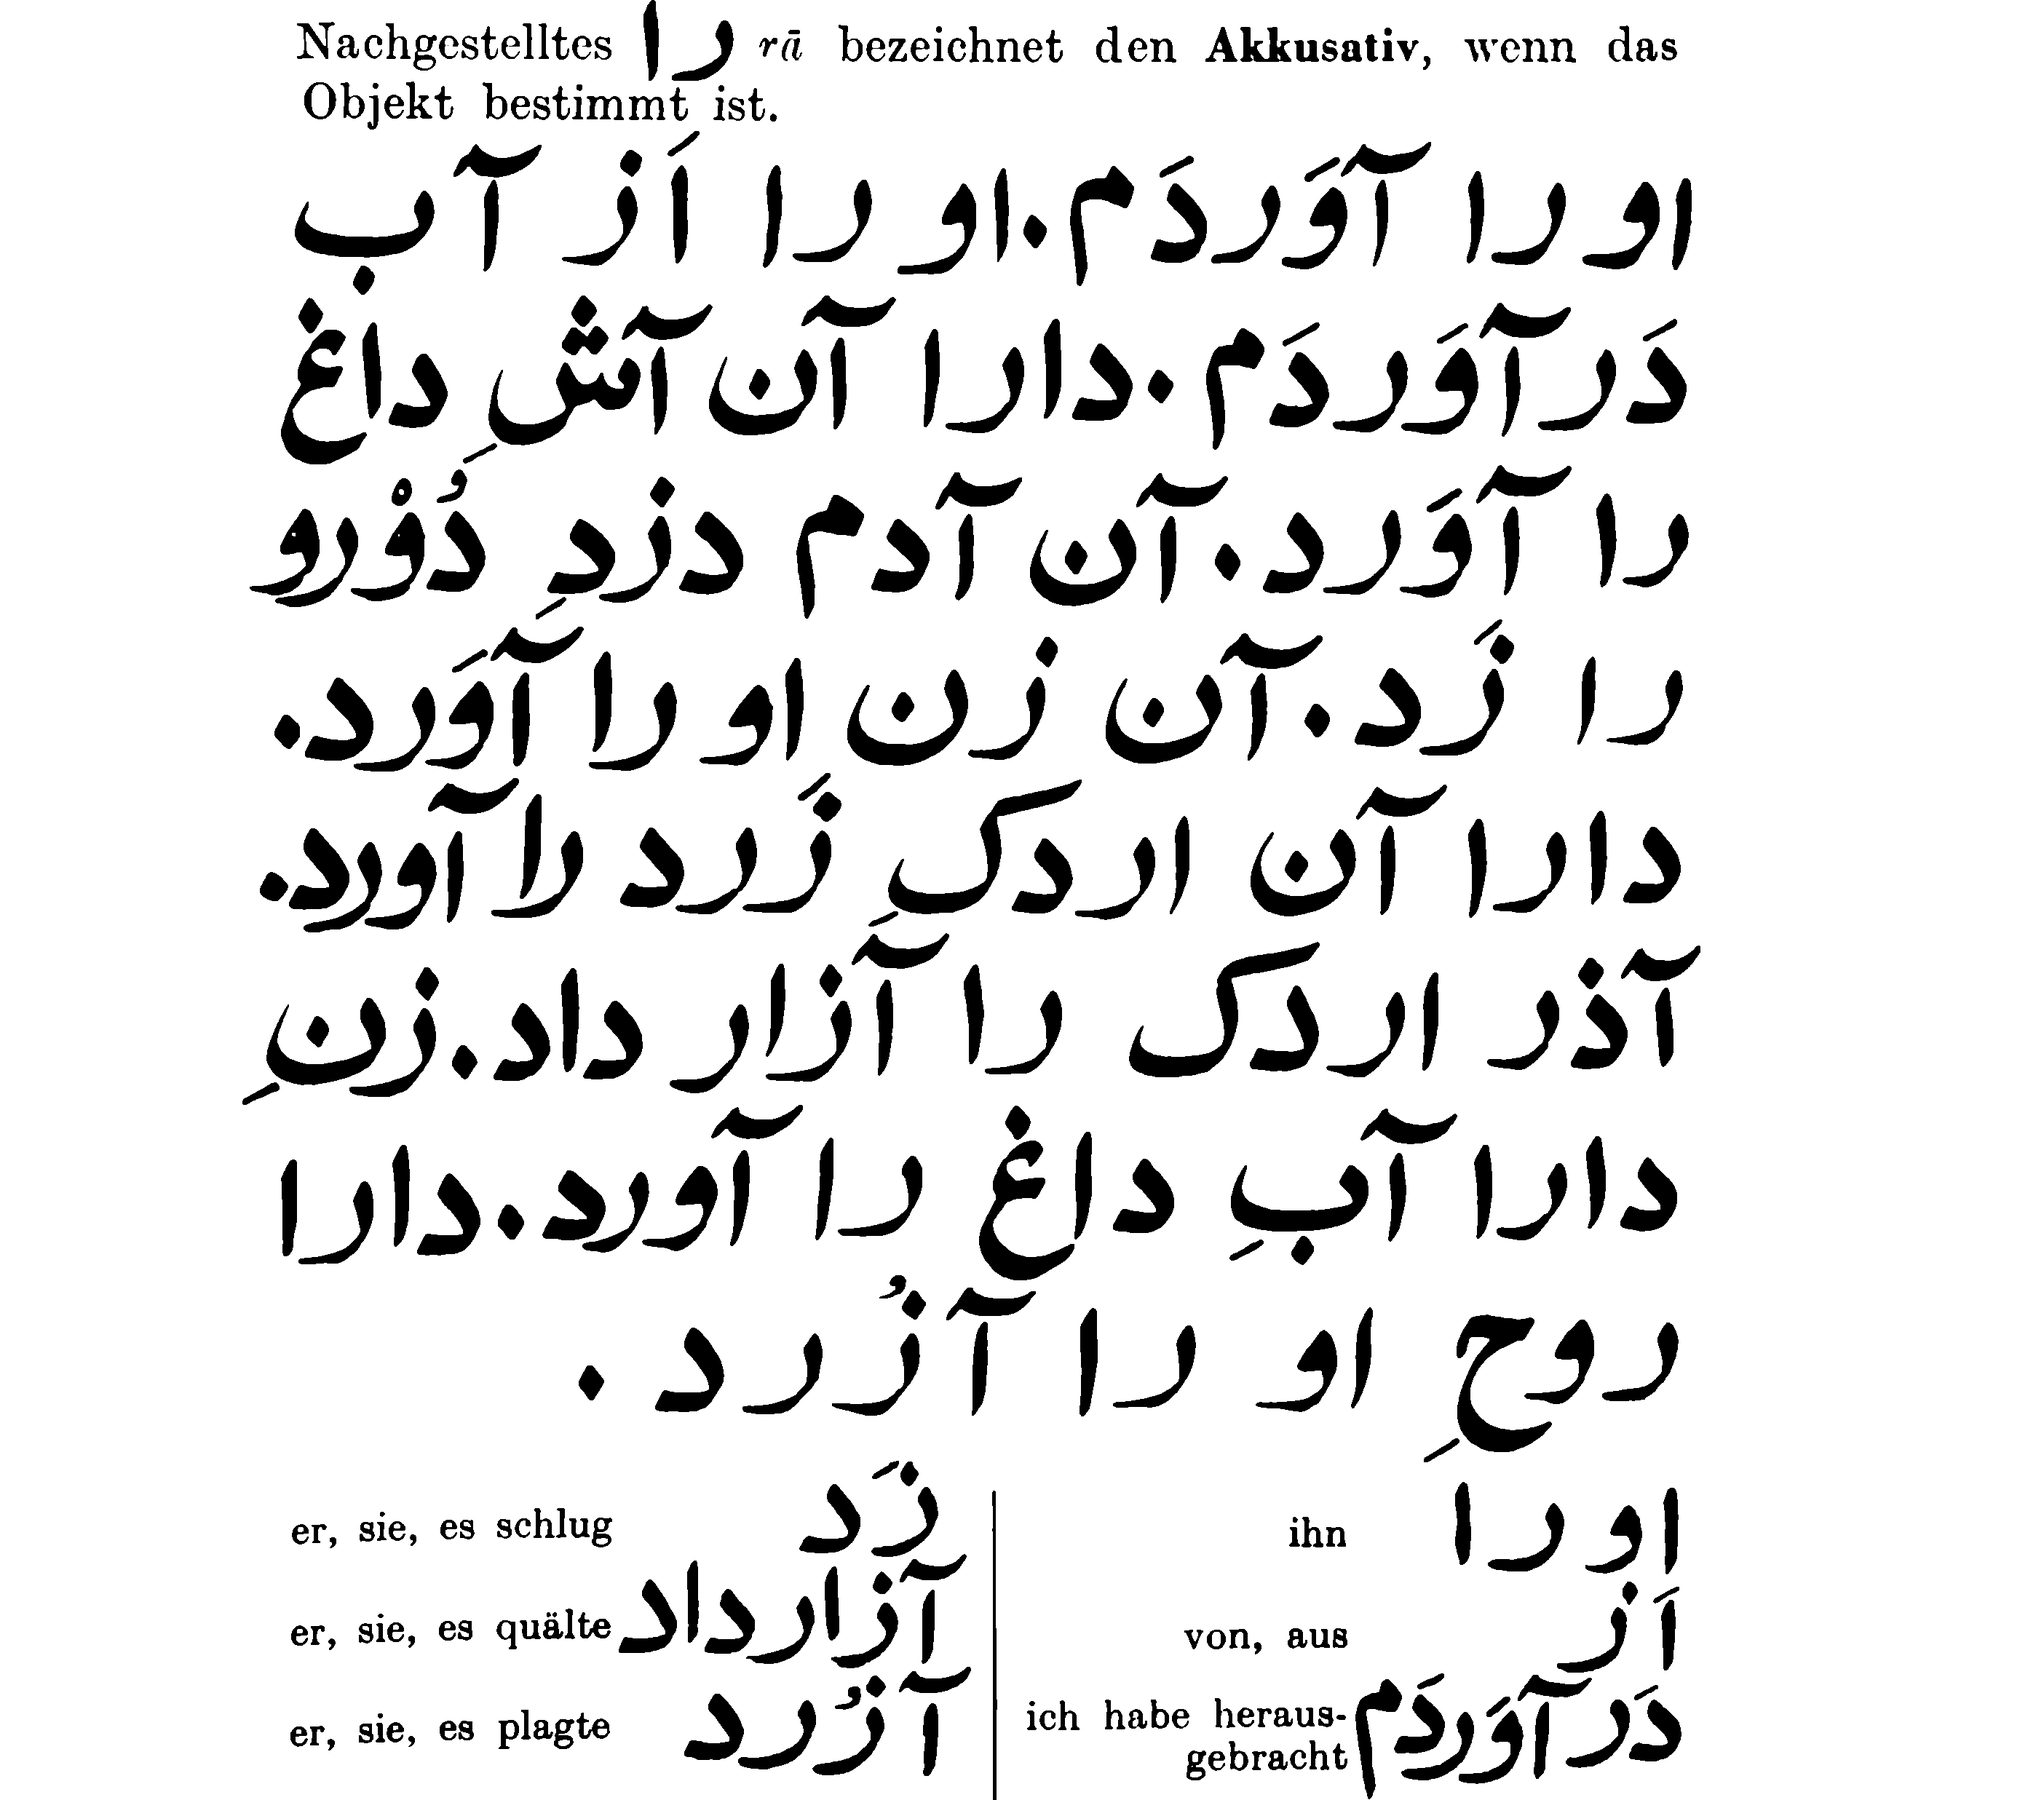
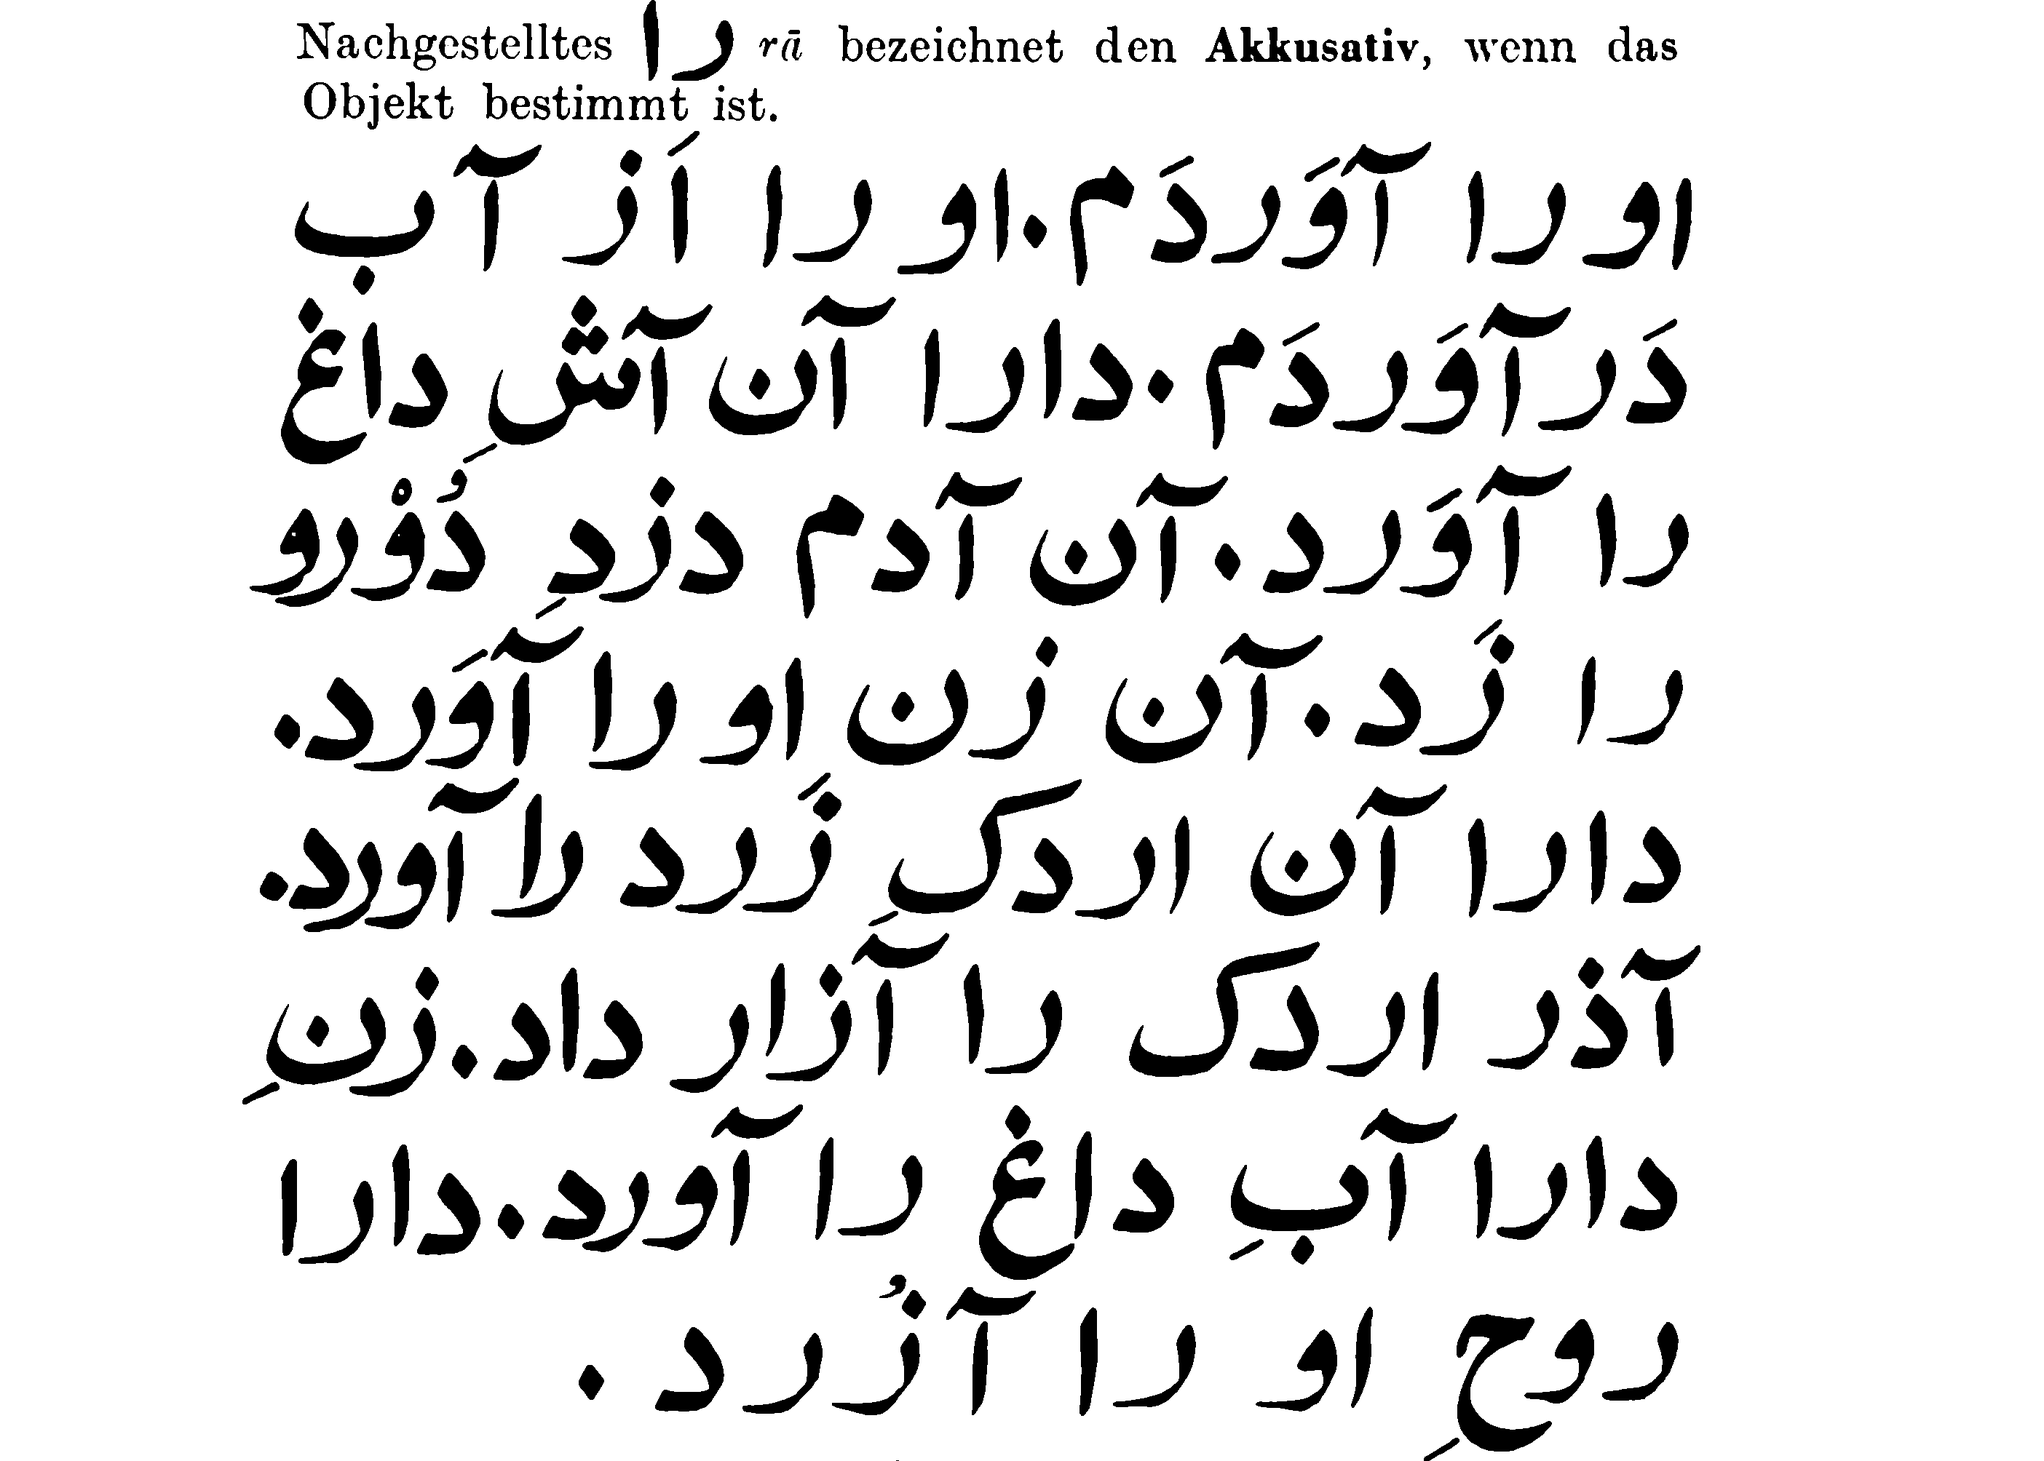
edit

diff --git a/s/11.md b/s/11.md
@@ -6,27 +6,14 @@ title:  Lektion 11
 
 ![image](/assets/s/021.png-03.png)
 
-![image](/assets/s/2col/021.png-12_1L.png)
-
-![image](/assets/s/2col/021.png-12_2R.png)
-
 Nachgcstelltes Objekt bestimmt ist.
 
-er, sie, es schlug
+bezeichnet den Akkusativ, wenn das
 
-er, sie, es quälte er, sie, es plagte
+![image](/assets/s/021.png-04_1L.png)
 
+![image](/assets/s/021.png-04_1R.png)
 
-
-Lektion 11 bezeichnet den Akkusativ, wenn das
-
-ihn
-
-von, aus ich habe herausgebracht unaufrichtig, heuchlerisch
-
-
-
-==newpage=19==
-
+![image](/assets/s/2col/021.png-12_2R.png)
 
 {% include lexicon.html param_id="11" %}
